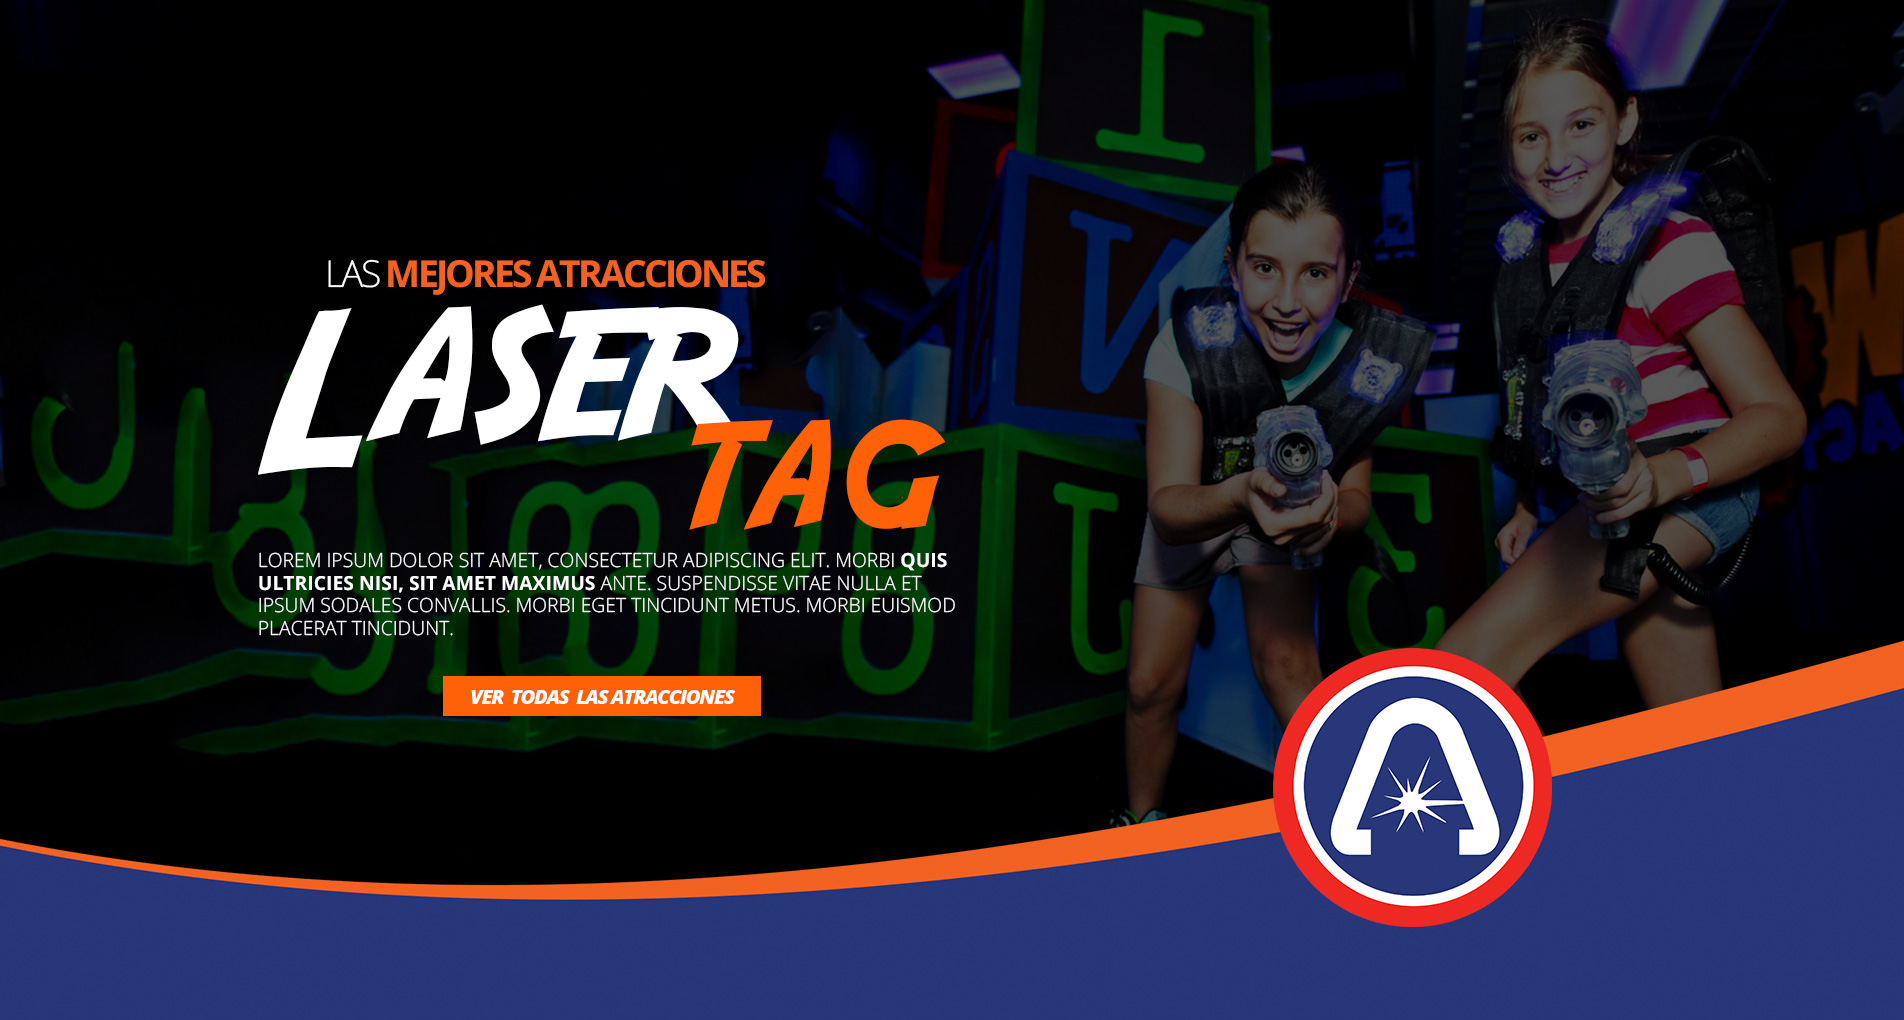
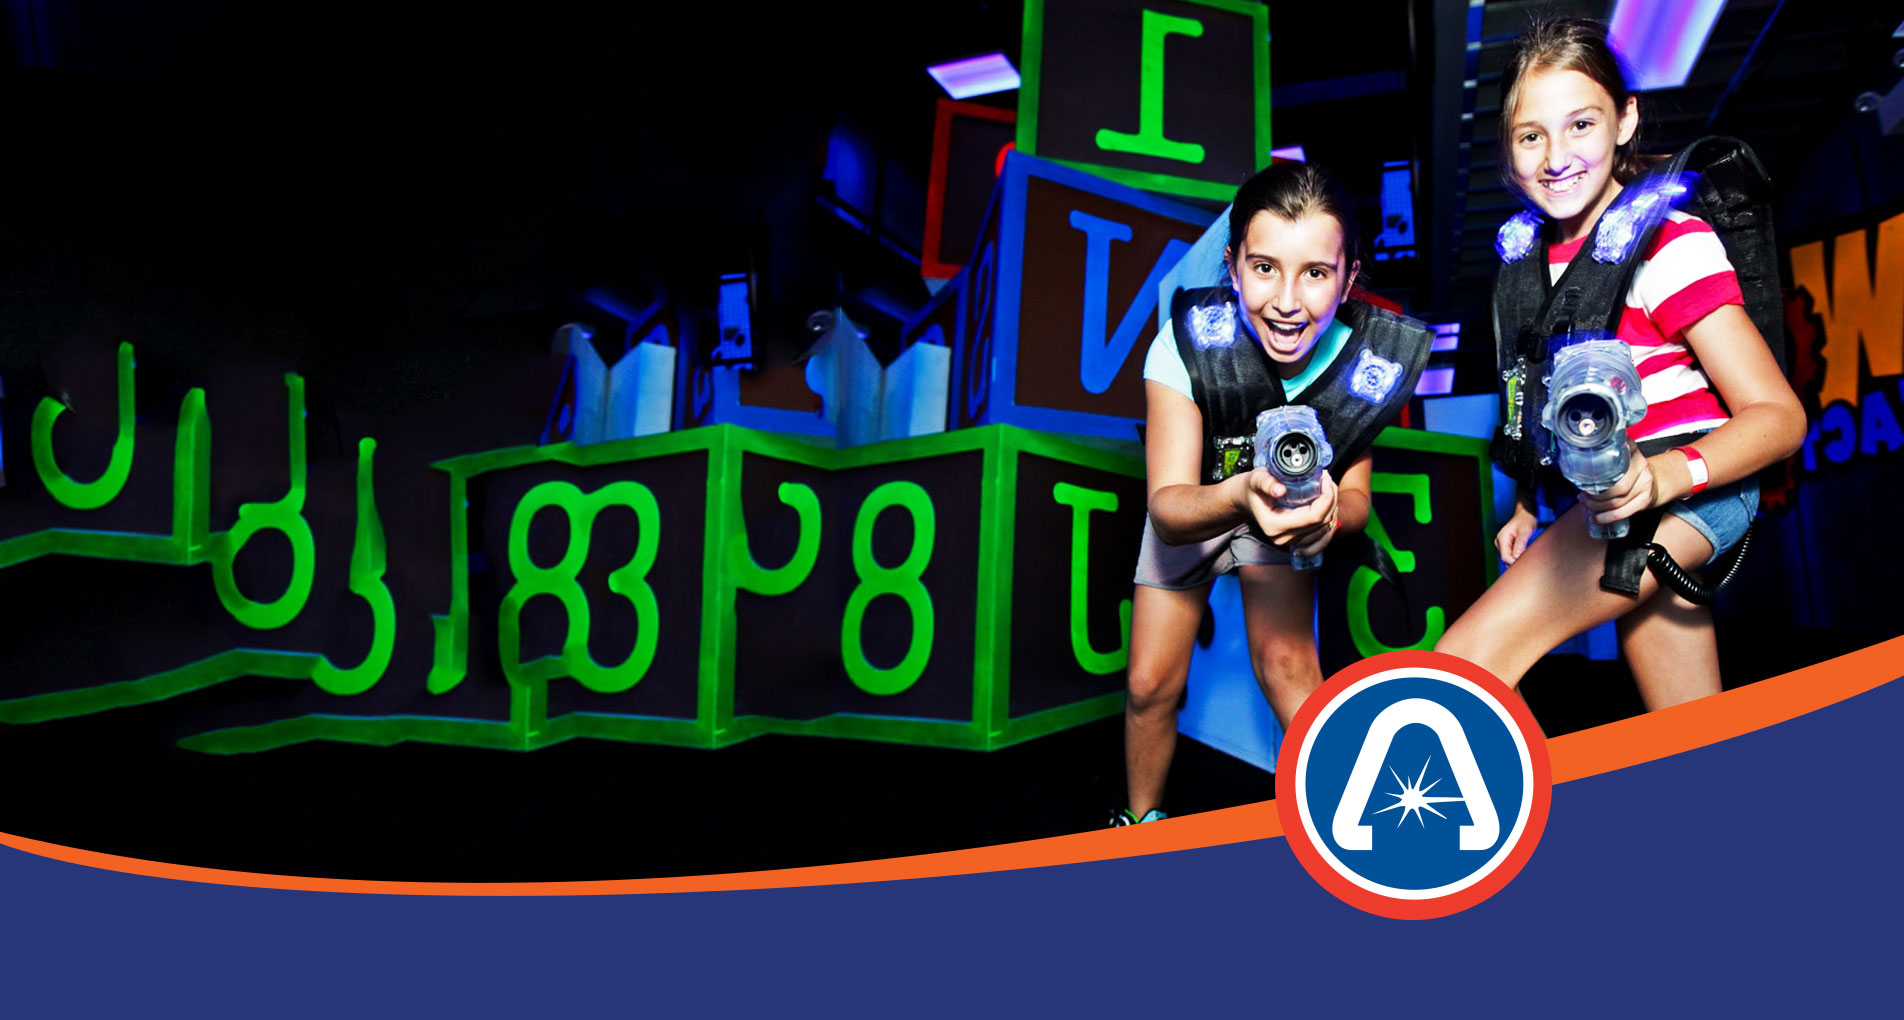
Cambios en Slider

diff --git a/_includes/index/slider.html b/_includes/index/slider.html
@@ -2,7 +2,7 @@
 <div class="intro_section page_mainslider ds">
   <div class="flexslider">
     <ul class="slides">
-      <li>
+    <li>
         <img src="{% asset_path 'images/slider_al/slider3.jpg' %}" alt="">
         <div class="page_mainslider-wrapp">
           <div class="page_mainslider-table">
@@ -11,7 +11,19 @@
                 <div class="page_mainslider-block">
                   <div class="container">
                     <div class="row">
+                      <div class="col-lg-12">
+                        <p class="page_mainslider__subtitle" style="color:#fff; font-size:25px; text-transform:uppercase; white-space:nowrap; font-weight:100;padding: 0px 15px;">Las <strong>Mejores Atracciones</strong></p>
 
+
+                        <h3 class="page_mainslider__title">Laser</h3>
+                        <h3 class="page_mainslider__title_down">Tag</h3>
+                        <p class="page_mainslider__text">
+                          <span>
+                            Lorem ipsum dolor sit amet, no prima aliquam salutatus vis, pro quem cibo aeterno ut. Duo at verterem perpetua, duo eius tation pertinacia ea. Has ea vero expetenda consectetuer, an alia singulis ius. Vel indoctum conceptam cu. Mea modus voluptatum ad, eos dicta regione cu.
+                          </span>
+                        </p>
+                        <a href="#" class="page_mainslider__btn">ver todas las atracciones</a>
+                      </div>
                     </div>
                   </div>
                 </div>
@@ -20,60 +32,37 @@
           </div>
         </div>
       </li>
+
       <li>
-        <img src="{% asset_path 'images/slider_al/slider.jpg' %}" alt="">
-        <div class="page_mainslider-wrapp">
-          <div class="page_mainslider-table">
-            <div class="page_mainslider-row">
-              <div class="page_mainslider-col">
-                <div class="page_mainslider-block">
-                  <div class="container">
-                    <div class="row">
+          <img src="{% asset_path 'images/slider_al/slider4.jpg' %}" alt="">
+          <div class="page_mainslider-wrapp">
+            <div class="page_mainslider-table">
+              <div class="page_mainslider-row">
+                <div class="page_mainslider-col">
+                  <div class="page_mainslider-block">
+                    <div class="container">
+                      <div class="row">
+                        <div class="col-lg-8">
+                          <p class="page_mainslider__subtitle" style="color:#fff; font-size:25px; text-transform:uppercase; white-space:nowrap; font-weight:100;padding: 0px 15px;">Las <strong>Mejores Atracciones</strong></p>
 
+
+                          <h3 class="page_mainslider__title">Futbol</h3>
+                          <h3 class="page_mainslider__title_down">Town</h3>
+                          <p class="page_mainslider__text">
+                            <span>
+                              Lorem ipsum dolor sit amet, no prima aliquam salutatus vis, pro quem cibo aeterno ut. Duo at verterem perpetua, duo eius tation pertinacia ea. Has ea vero expetenda consectetuer, an alia singulis ius. Vel indoctum conceptam cu. Mea modus voluptatum ad, eos dicta.
+                            </span>
+                          </p>
+                          <a href="#" class="page_mainslider__btn">ver todas las atracciones</a>
+                        </div>
+                      </div>
                     </div>
                   </div>
                 </div>
               </div>
             </div>
           </div>
-        </div>
-      </li>
-      <li>
-        <img src="{% asset_path 'images/slider_al/slider4.jpg' %}" alt="">
-        <div class="page_mainslider-wrapp">
-          <div class="page_mainslider-table">
-            <div class="page_mainslider-row">
-              <div class="page_mainslider-col">
-                <div class="page_mainslider-block">
-                  <div class="container">
-                    <div class="row">
-
-                    </div>
-                  </div>
-                </div>
-              </div>
-            </div>
-          </div>
-        </div>
-      </li>
-      <li>
-        <img src="{% asset_path 'images/slider_al/slider2.jpg' %}" alt="">
-        <div class="page_mainslider-wrapp">
-          <div class="page_mainslider-table">
-            <div class="page_mainslider-row">
-              <div class="page_mainslider-col">
-                <div class="page_mainslider-block">
-                  <div class="container">
-                    <div class="row">
-
-                    </div>
-                  </div>
-                </div>
-              </div>
-            </div>
-          </div>
-        </div>
-      </li>
+        </li>
 
     </ul>
   </div>

diff --git a/_assets/css/main.css b/_assets/css/main.css
@@ -1682,6 +1682,29 @@ ol.list3 li:after {
 	top: 0;
 	left: 0;
 }
+.listarena {
+	padding-bottom: 30px;
+	padding-top: 0;
+	margin-bottom: -0;
+	padding-left: 10px;
+}
+
+.listarena li {
+	font: 16px/30px 'Open Sans', 'Arial', sans-serif;
+	color: #5f5f5f;
+	list-style: none;
+	padding-left: 30px;
+	position: relative;
+}
+
+.listarena li::before {
+	font-family: 'FontAwesome';
+	content: '\f140';
+	color: #f26223;
+	position: absolute;
+	top: 0;
+	left: 0;
+}
 
 table {
 	width: 100%;
@@ -1868,7 +1891,7 @@ p > [class*="rt-icon"] + [class*="rt-icon"] {
 }
 
 .button-01:hover {
-	background: #262626;
+	background: #28377a;
 	color: #fff;
 	-webkit-transition: 0.5s all;
 	transition: 0.5s all;
@@ -3714,6 +3737,10 @@ section .cs .theme_button:hover {
 	color: #fff;
 }
 
+.home-page-02 h3.page_mainslider__title_down {
+	color: #f26223;
+}
+
 .home-page-02 .page_mainslider__text {
 	color: #fff;
 }
@@ -4546,12 +4573,11 @@ section .cs .theme_button:hover {
 }
 
 .page_mainslider .page_mainslider__title {
-	font: 600 100px/75px 'Open Sans', 'Arial', sans-serif;
-	text-transform: uppercase;
-	color: #262626;
-	margin-top: 0;
-	margin-left: -7px;
-	margin-bottom: 58px;
+	font: 600 150px/75px 'Adventure', 'Arial', sans-serif;
+	color: #fff;
+	margin-top: 5;
+	margin-left: 100px;
+	margin-bottom: -5px;
 }
 
 @media (max-width: 1199px) {
@@ -4573,16 +4599,25 @@ section .cs .theme_button:hover {
 		margin-left: 0;
 	}
 }
+.page_mainslider .page_mainslider__title_down {
+	font: 600 120px/75px 'Adventure', 'Arial', sans-serif;
+	color: #f26223;
+	margin-top: -50;
+	margin-left: 300px;
+	margin-bottom: -5px;
+  position: sticky;
+}
 
 .page_mainslider .page_mainslider__btn {
 	font: bold 12px/14px 'Open Sans', 'Arial', sans-serif;
-	color: #262626;
+	color: #fff;
 	background: #f26223;
 	text-transform: uppercase;
-	padding: 20px 47px;
+	padding: 5px 12px;
 	display: inline-block;
 	float: none;
 	vertical-align: middle;
+  margin-left: 230px;
 }
 
 @media (max-width: 991px) {
@@ -4778,10 +4813,12 @@ section .cs .theme_button:hover {
 }
 
 .page_mainslider__subtitle {
-	font: 30px/32px 'Open Sans', 'Arial', sans-serif;
-	color: #262626;
+	font: 200 30px/32px 'Open Sans', 'Arial', sans-serif;
+	color: #fff;
 	text-transform: uppercase;
 	margin-bottom: 8px;
+  margin-top: 0;
+  margin-left: 125px;
 }
 
 @media (max-width: 767px) {
@@ -4792,9 +4829,12 @@ section .cs .theme_button:hover {
 
 .page_mainslider__text {
 	font: 16px/30px 'Open Sans', 'Arial', sans-serif;
-	color: #5f5f5f;
+	color: #fff;
+  margin-top: 25px;
 	margin-left: -2px;
 	margin-bottom: 43px;
+  margin-left: 100px;
+  line-height: normal;
 }
 
 @media (max-width: 991px) {
@@ -4807,7 +4847,7 @@ section .cs .theme_button:hover {
 .page_mainslider__text span {
 	display: inline-block;
 	float: none;
-	max-width: 675px;
+	max-width: 500px;
 }
 
 @media (max-width: 1199px) {
